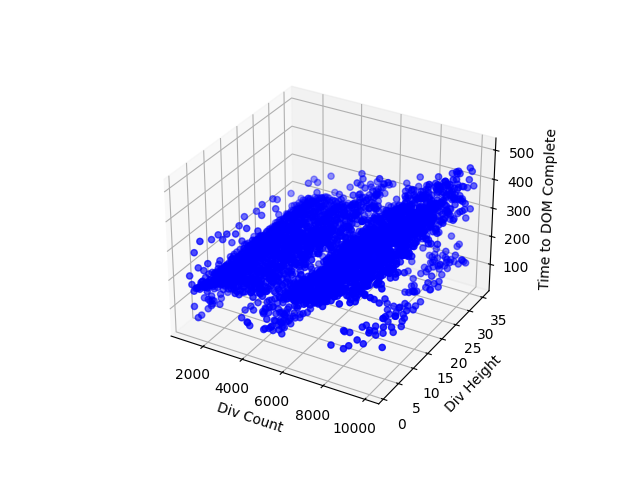
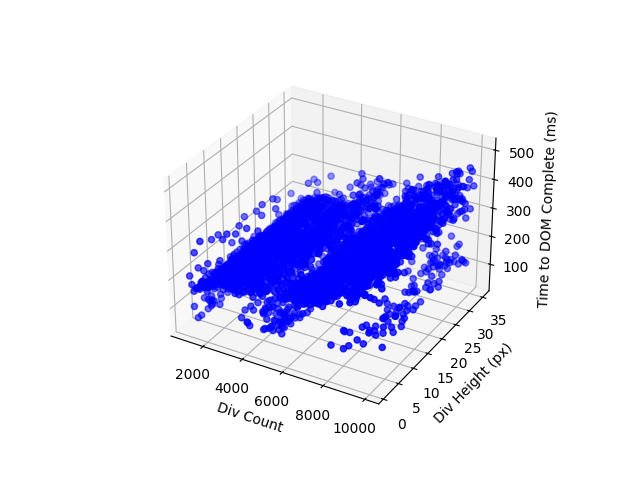
added units in a hacky way + updated 3dscatter of results, added to readme

Changed region(s): [[0.8438, 0.2188, 0.875, 0.625], [0.6875, 0.7188, 0.8125, 0.875]]

diff --git a/src/analysis.py b/src/analysis.py
@@ -104,8 +104,8 @@ def plot_3d_scatter(df, x_col, y_col, z_col):
     
     ax.scatter(df[x_col], df[y_col], df[z_col], c='blue', marker='o')
     ax.set_xlabel(x_col)
-    ax.set_ylabel(y_col)
-    ax.set_zlabel(z_col)
+    ax.set_ylabel(y_col + " (px)")
+    ax.set_zlabel(z_col + " (ms)")
 
     plt.savefig(figure_path)
 

diff --git a/README.md b/README.md
@@ -1,3 +1,7 @@
+# How Many Divs?
+
+![Div Count, Div Height, Time to DOM Complete](data/3d-scatter-plot.png)
+
 # Purpose
 
 This project is a stepping stone project that explores the limit of modern browsers.
